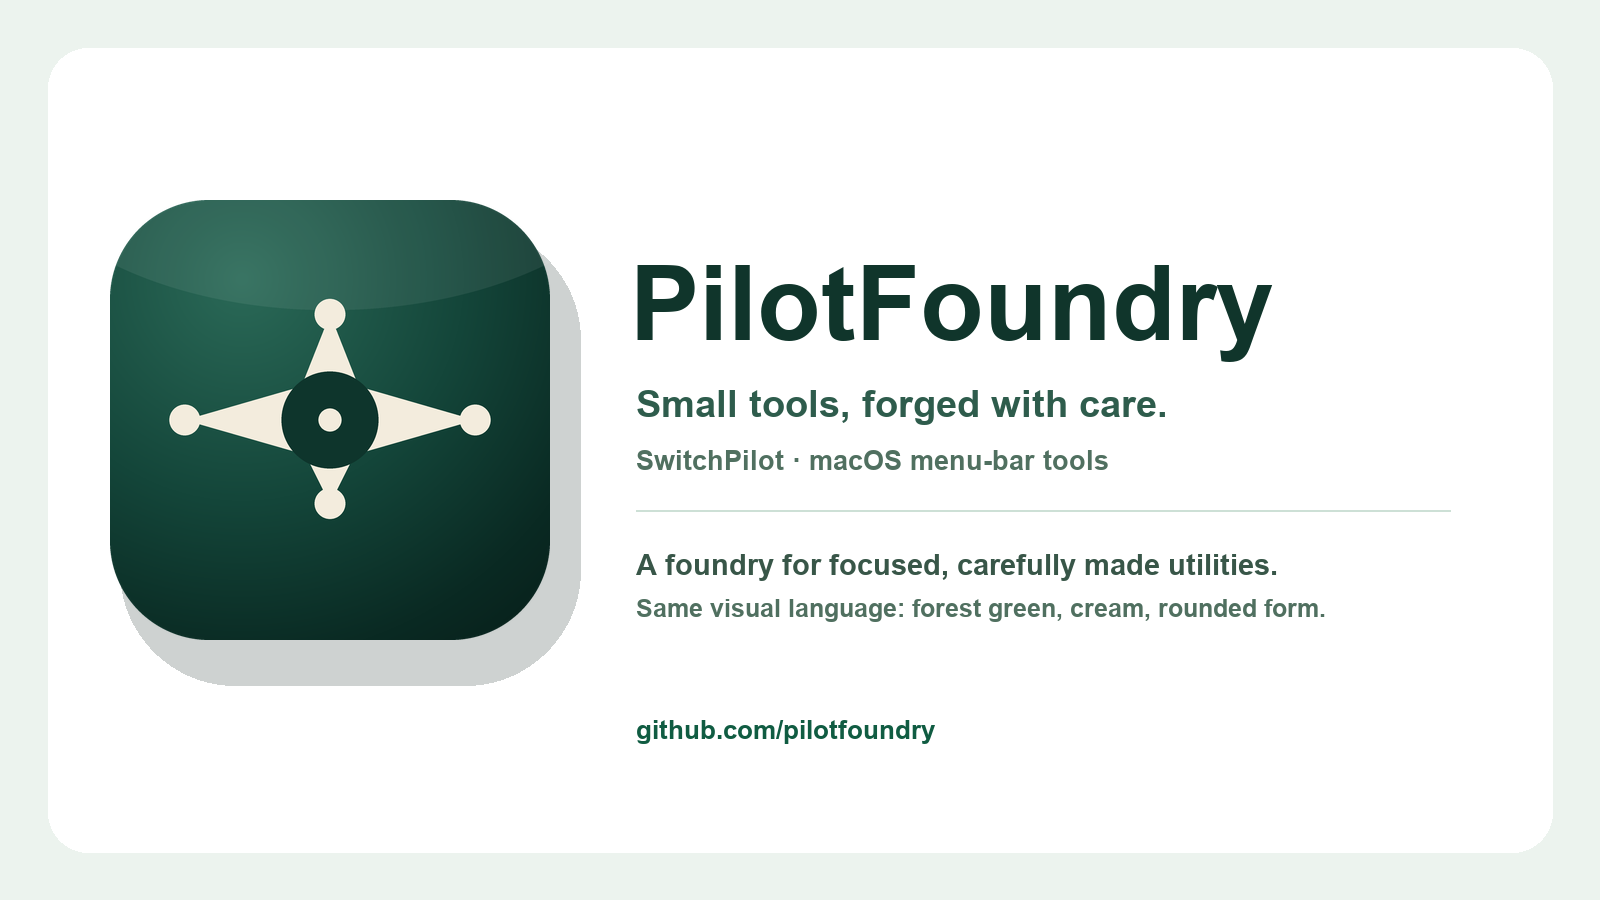
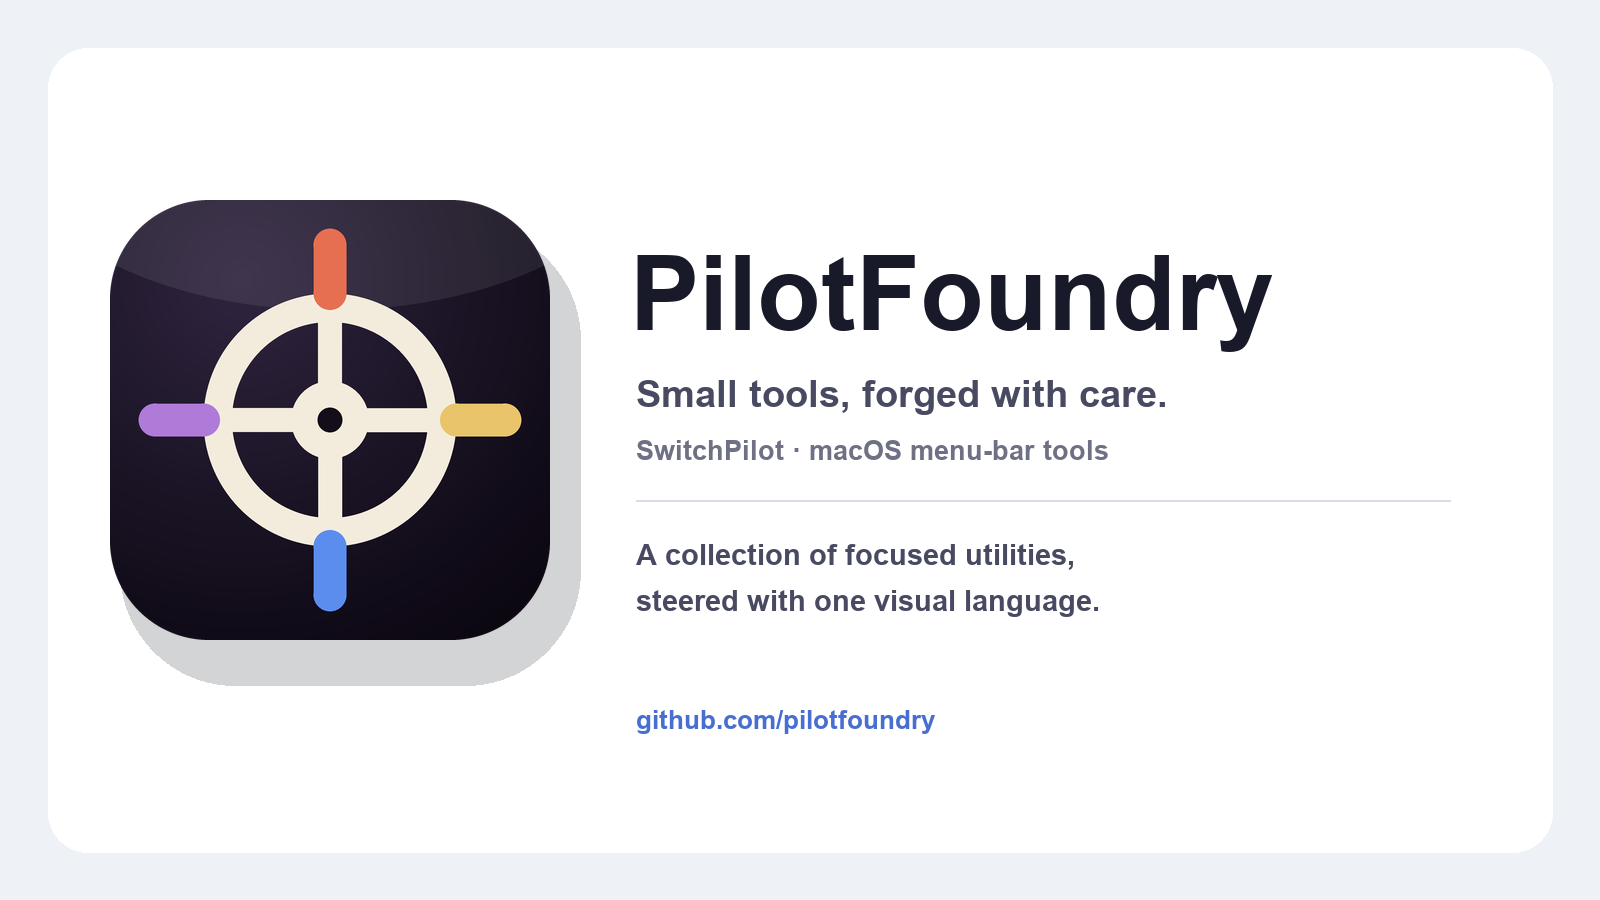
brand: refine PilotFoundry helm mark and collection palette

diff --git a/assets/org/README.md b/assets/org/README.md
@@ -4,8 +4,13 @@ PilotFoundry is the home for small, focused macOS tools, including SwitchPilot.
 
 - GitHub: https://github.com/pilotfoundry
 - Tagline: **Small tools, forged with care.**
-- Palette: forest green gradient / cream `#f3ecdd`
-- Shape language: rounded-square frame, thick cream marks
+- Mark: a simplified ship's wheel. The hub, four spokes and rim carry the
+  precision/craft; four colored grips (coral, saffron, azure, lilac) represent a
+  collection of distinct tools.
+- Palette: midnight aubergine / ink base, ivory mark, and four collection
+  accents. Intentionally **not** the SwitchPilot forest-green palette; the
+  family resemblance is the rounded-square frame, thick rounded forms and soft
+  premium finish, not the color.
 - App product family: SwitchPilot is `pilotfoundry/switchpilot`; future tools use
   the same frame and a distinct glyph.
 
@@ -18,7 +23,7 @@ PilotFoundry is the home for small, focused macOS tools, including SwitchPilot.
 | `pilotfoundry-icon-256.png`, `-128`, `-64`, `-32` | Small-size previews |
 | `pilotfoundry-avatar-circle-preview.png` | GitHub circular-crop preview |
 | `pilotfoundry-brand-1600x900.png` | Brand / README image |
-| `pilotfoundry-social-preview-1280x640.png` | Optional organization or project social card |
+| `pilotfoundry-social-preview-1280x640.png` | Optional social card |
 
 The organization avatar should be uploaded in GitHub **Organization Settings →
 Profile → Profile picture**. The organization avatar is separate from the
